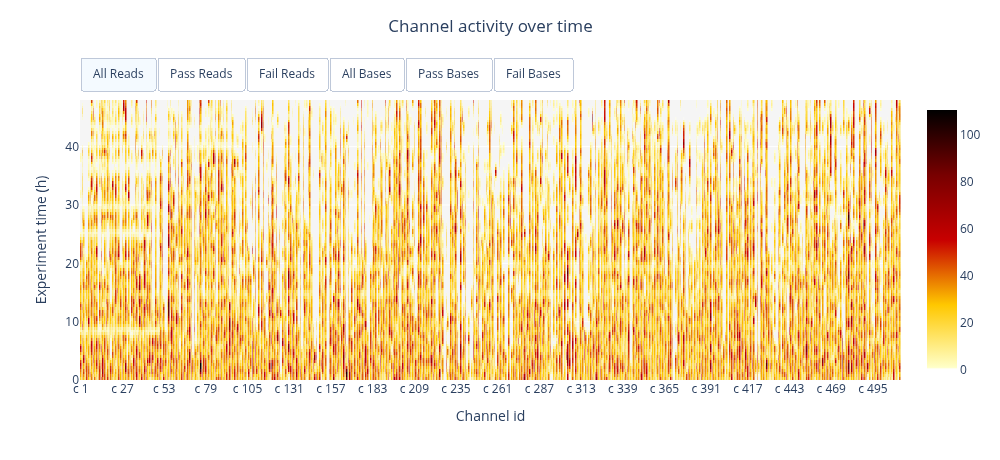
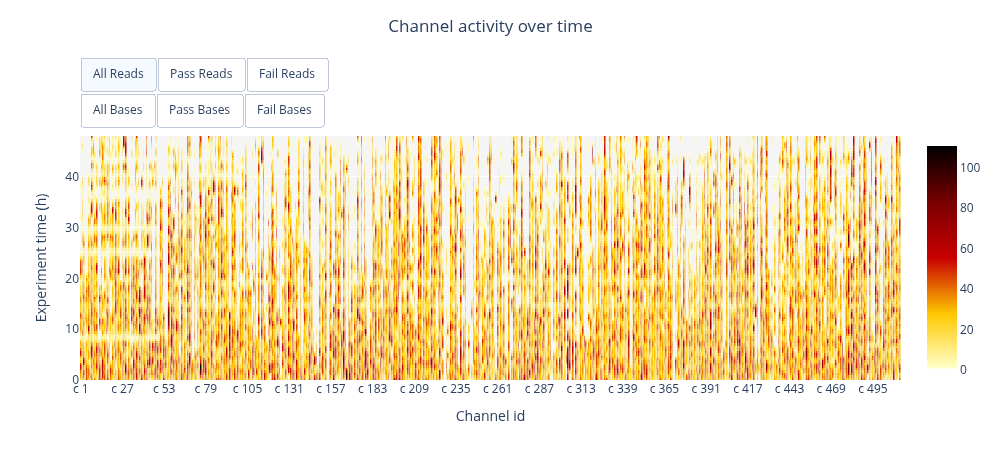
Move legends right of the plot; give six buttons two rows
The legends stayed in the left hand margin after the buttons moved out
of it, and a long y axis title, such as the over time plots' "Mean read
PHRED quality", ran under them. They now sit to the right of the plot
area, where plotly makes room; on the 2D plots the colour bar is
shortened to leave the legend room above it.

In one row, the six buttons of the output and channel plots ran off the
edge of the figure once the HTML report was in a narrow window (800 px).
Reads and bases now get a row each. Each row is its own menu with its own
highlight, so every button also clears the other row's, and only the
read set on show is marked; checked by clicking through them in Chrome.

Changed region(s): [[0.031, 0.213, 0.992, 0.8217], [0.341, 0.1217, 0.558, 0.1826], [0.961, 0.7, 0.992, 0.7304]]

diff --git a/pycoQC/plots/base.py b/pycoQC/plots/base.py
@@ -46,6 +46,15 @@ MENU_ROW = {"type": "buttons", "direction": "right",
             "x": 0, "xanchor": "left", "y": 1, "yanchor": "bottom",
             "pad": {"b": 10}}
 
+# Height of one row of buttons, for a plot with more than one.
+MENU_ROW_STEP = 36
+
+# Where a plot's legend goes: to the right of the plot area, from its top.
+# In the left hand margin it shared a column with the y axis title, and a
+# long title, such as the over time plots' "Mean read PHRED quality", ran
+# under it. Plotly widens the right margin to fit it.
+LEGEND_RIGHT = {"x": 1.02, "xanchor": "left", "y": 1, "yanchor": "top"}
+
 
 #~~~~~~~~~~~~~~~~~~~~~~~~~~~~~~~~~~~~CLASS~~~~~~~~~~~~~~~~~~~~~~~~~~~~~~~~~~~~~#
 class PlotBase:
@@ -340,7 +349,14 @@ class PlotBase:
 
     @staticmethod
     def _level_menu(prepared, method):
-        """The row of buttons switching a plot between read sets.
+        """The buttons switching a plot between read sets, in rows of three.
+
+        A plot counting both reads and bases has six buttons, too wide for
+        one row once the HTML report is in a narrow window: the last ran off
+        the edge of the figure. Reads and bases get a row each, reads on top.
+        Each row is a menu of its own, which keeps its own highlighted
+        button, so every button also clears the other rows' highlight and
+        only the read set on show is marked.
 
         * prepared
             (label, *args) per button, args being what plotly's method takes:
@@ -348,9 +364,35 @@ class PlotBase:
         * method
             "restyle" or "update".
         """
-        return [dict(MENU_ROW, active=0,
-                     buttons=[dict(label=label, method=method, args=list(args))
-                              for label, *args in prepared])]
+        rows = [prepared[i:i + len(LEVELS)] for i in range(0, len(prepared), len(LEVELS))]
+        if len(rows) == 1:
+            return [dict(MENU_ROW, active=0,
+                         buttons=[dict(label=label, method=method, args=list(args))
+                                  for label, *args in prepared])]
+
+        menus = []
+        for i, row in enumerate(rows):
+            others = {"updatemenus[{}].active".format(j): -1
+                      for j in range(len(rows)) if j != i}
+            buttons = []
+            for label, trace_update, *rest in row:
+                # "update" takes the trace update, a layout update and the
+                # traces; "restyle" the trace update and the traces.
+                if method == "update":
+                    layout_update, traces = (dict(rest[0]) if rest else {}), rest[1:]
+                else:
+                    layout_update, traces = {}, rest
+                layout_update.update(others)
+                buttons.append(dict(label=label, method="update",
+                                    args=[trace_update, layout_update, *traces]))
+            pad = dict(MENU_ROW["pad"], b=MENU_ROW["pad"]["b"] + MENU_ROW_STEP * (len(rows) - 1 - i))
+            menus.append(dict(MENU_ROW, pad=pad, active=0 if i == 0 else -1, buttons=buttons))
+        return menus
+
+    @staticmethod
+    def _menu_margin(menus):
+        """Top margin making room for the title and every row of buttons."""
+        return {"t": 100 + MENU_ROW_STEP * (len(menus) - 1)}
 
     @staticmethod
     def _title(text):

diff --git a/tests/test_regressions.py b/tests/test_regressions.py
@@ -276,7 +276,8 @@ def figures(tmp_path_factory, aligned_bam):
 class TestButtonsKeepClearOfLegendsAndAxes:
     """The buttons of each plot ran down the left hand side, sharing the
     margin with the legend and the y axis title, and covered one or the
-    other: six buttons on output_over_time went over both."""
+    other: six buttons on output_over_time went over both. The legends
+    stayed there after the buttons moved, and still met long titles."""
 
     def test_every_plot_with_buttons_is_drawn(self, figures):
         with_menus = {name for name, fig in figures.items()
@@ -297,6 +298,37 @@ class TestButtonsKeepClearOfLegendsAndAxes:
         for name, fig in figures.items():
             if fig.layout.updatemenus and fig.layout.legend.y is not None:
                 assert fig.layout.legend.y <= 1, name
+
+    def test_six_buttons_take_two_rows(self, figures):
+        """In one row, six buttons ran off the edge of a plot in a narrow
+        window. Each row keeps its own highlight, so every button clears the
+        other row's: only the read set on show is marked."""
+        for name in ("output_over_time", "channels_activity"):
+            layout = figures[name].layout
+            menus = layout.updatemenus
+            assert [[b.label for b in m.buttons] for m in menus] == [
+                ["All Reads", "Pass Reads", "Fail Reads"],
+                ["All Bases", "Pass Bases", "Fail Bases"]], name
+            assert [m.active for m in menus] == [0, -1], name
+            assert menus[0].pad.b > menus[1].pad.b, name    # reads on top
+            assert layout.margin.t > 100, name              # room for both
+            for i, menu in enumerate(menus):
+                for button in menu.buttons:
+                    assert button.method == "update", name
+                    assert button.args[1]["updatemenus[{}].active".format(1 - i)] == -1, name
+
+    def test_output_buttons_still_rescale_the_axis(self, figures):
+        """Splitting the rows must keep each button's own layout update."""
+        for menu in figures["output_over_time"].layout.updatemenus:
+            for button in menu.buttons:
+                assert "yaxis.range" in button.args[1]
+
+    def test_legends_stay_out_of_the_axis_title_column(self, figures):
+        """A legend left of the plot area shared that margin with the y axis
+        title, and "Mean read PHRED quality" ran under it."""
+        for name, fig in figures.items():
+            if fig.layout.yaxis.title.text and fig.layout.legend.x is not None:
+                assert fig.layout.legend.x >= 0, name
 
     def test_the_title_is_above_the_row(self, figures):
         for name, fig in figures.items():

diff --git a/pycoQC/plots/distributions.py b/pycoQC/plots/distributions.py
@@ -15,7 +15,7 @@ import plotly.graph_objs as go
 
 # Local lib import
 from pycoQC.common import pycoQCError
-from pycoQC.plots.base import LEVELS
+from pycoQC.plots.base import LEGEND_RIGHT, LEVELS
 
 #~~~~~~~~~~~~~~~~~~~~~~~~~~~~~~~~~~~~CLASS~~~~~~~~~~~~~~~~~~~~~~~~~~~~~~~~~~~~~#
 class Distributions:
@@ -264,7 +264,7 @@ class Distributions:
         layout = go.Layout(
             hovermode="closest",
             plot_bgcolor="whitesmoke",
-            legend={"x": -0.2, "y": 1, "xanchor": 'left', "yanchor": 'top'},
+            legend=LEGEND_RIGHT,
             updatemenus=self._level_menu(prepared, "update"),
             width=width,
             height=height,
@@ -606,7 +606,10 @@ class Distributions:
         data = [
             go.Contour(x=dd1["x"][0], y=dd1["y"][0], z=dd1["z"][0], contours=dd1["contours"][0],
                        name="Density", hoverinfo="name+x+y", colorscale=colorscale, showlegend=True,
-                       connectgaps=True, line={"width": 0}),
+                       connectgaps=True, line={"width": 0},
+                       # Shortened to leave the legend room above it, on
+                       # the same side.
+                       colorbar={"len": 0.7, "y": 0, "yanchor": "bottom"}),
             go.Scatter(x=dd1["x"][1], y=dd1["y"][1],
                        mode='markers', name='Median', hoverinfo="name+x+y",
                        marker={"size": 12, "color": 'black', "symbol": "x"})]
@@ -615,7 +618,7 @@ class Distributions:
         layout = go.Layout(
             hovermode="closest",
             plot_bgcolor="whitesmoke",
-            legend={"x": -0.2, "y": 1, "xanchor": 'left', "yanchor": 'top'},
+            legend=LEGEND_RIGHT,
             updatemenus=self._level_menu(prepared, "restyle"),
             width=width,
             height=height,

diff --git a/pycoQC/plots/over_time.py b/pycoQC/plots/over_time.py
@@ -16,7 +16,7 @@ import plotly.graph_objs as go
 
 # Local lib import
 from pycoQC.common import pycoQCError
-from pycoQC.plots.base import LEVELS
+from pycoQC.plots.base import LEGEND_RIGHT, LEVELS
 
 #~~~~~~~~~~~~~~~~~~~~~~~~~~~~~~~~~~~~CLASS~~~~~~~~~~~~~~~~~~~~~~~~~~~~~~~~~~~~~#
 class OverTime:
@@ -74,12 +74,14 @@ class OverTime:
                  for i in range(2, len(dd1["x"]))]
 
         # tweak plot layout
+        menus = self._level_menu(prepared, "update")
         layout = go.Layout(
             plot_bgcolor="whitesmoke",
             width=width,
             height=height,
-            updatemenus=self._level_menu(prepared, "update"),
-            legend={"x": -0.05, "y": 1, "xanchor": 'right', "yanchor": 'top'},
+            updatemenus=menus,
+            margin=self._menu_margin(menus),
+            legend=LEGEND_RIGHT,
             title=self._title(plot_title),
             xaxis={"title": "Experiment time (h)", "zeroline": False, "showline": True},
             yaxis={"title": "Count", "zeroline": False, "showline": True, "fixedrange": True,
@@ -525,7 +527,7 @@ class OverTime:
             width=width,
             height=height,
             updatemenus=self._level_menu(prepared, "restyle"),
-            legend={"x": -0.07, "y": 1, "xanchor": 'right', "yanchor": 'top'},
+            legend=LEGEND_RIGHT,
             title=self._title(plot_title),
             yaxis={"title": y_lab, "zeroline": False, "type": y_scale, "showline": True,
                    "rangemode": 'nonnegative', "fixedrange": True},

diff --git a/pycoQC/plots/alignment.py b/pycoQC/plots/alignment.py
@@ -20,7 +20,7 @@ from plotly.subplots import make_subplots
 
 # Local lib import
 from pycoQC.common import pycoQCError
-from pycoQC.plots.base import COVERAGE_MAX_LABELLED_REFS, MENU_ROW
+from pycoQC.plots.base import COVERAGE_MAX_LABELLED_REFS, LEGEND_RIGHT, MENU_ROW
 
 #~~~~~~~~~~~~~~~~~~~~~~~~~~~~~~~~~~~~CLASS~~~~~~~~~~~~~~~~~~~~~~~~~~~~~~~~~~~~~#
 class Alignment:
@@ -272,7 +272,7 @@ class Alignment:
             updatemenus=updatemenus,
             shapes=shapes,
             hovermode="closest",
-            legend={"x": -0.2, "y": 1, "xanchor": 'left', "yanchor": 'top'},
+            legend=LEGEND_RIGHT,
             xaxis={"zeroline": False, "showline": True, "ticktext": x_lab, "tickvals": x_lab_coord,
                    "tickangle": -45, "showgrid": False, "title": x_title},
             yaxis={"title": "Mean Coverage", "type": "log", "zeroline": False, "fixedrange": True},

diff --git a/pycoQC/plots/barcodes.py b/pycoQC/plots/barcodes.py
@@ -14,7 +14,7 @@ import plotly.graph_objs as go
 
 # Local lib import
 from pycoQC.common import pycoQCError
-from pycoQC.plots.base import LEVELS, MENU_ROW, PIE_MAX_BARCODES
+from pycoQC.plots.base import LEGEND_RIGHT, LEVELS, MENU_ROW, PIE_MAX_BARCODES
 
 #~~~~~~~~~~~~~~~~~~~~~~~~~~~~~~~~~~~~CLASS~~~~~~~~~~~~~~~~~~~~~~~~~~~~~~~~~~~~~#
 class Barcodes:
@@ -234,7 +234,7 @@ class Barcodes:
         layout = go.Layout(
             hovermode="closest",
             plot_bgcolor="whitesmoke",
-            legend={"x": -0.2, "y": 1, "xanchor": 'left', "yanchor": 'top'},
+            legend=LEGEND_RIGHT,
             updatemenus=self._level_menu(prepared, "restyle"),
             width=width,
             height=height,

diff --git a/pycoQC/plots/run_health.py b/pycoQC/plots/run_health.py
@@ -328,11 +328,13 @@ class RunHealth:
                            hoverinfo="x+y+z")]
 
         # tweak plot layout
+        menus = self._level_menu(prepared, "restyle")
         layout = go.Layout(
             plot_bgcolor="whitesmoke",
             width=width,
             height=height,
-            updatemenus=self._level_menu(prepared, "restyle"),
+            updatemenus=menus,
+            margin=self._menu_margin(menus),
             title=self._title(plot_title),
             xaxis={"title": "Channel id", "zeroline": False, "showline": False, "nticks": 20, "showgrid": False},
             yaxis={"title": "Experiment time (h)", "zeroline": False, "showline": False,

diff --git a/CHANGELOG.md b/CHANGELOG.md
@@ -107,7 +107,10 @@ fixes fell out of.
   side, where the legend and the y axis title also were. They covered one
   or the other, and on the output and channel plots, with six buttons,
   both. Every plot's buttons now sit in a row above the plot area, under
-  the title.
+  the title; the output and channel plots have a row for reads and one
+  for bases, so they fit a narrow window. The legends moved to the right
+  of the plot area, since in the left margin a long axis title, such as
+  "Mean read PHRED quality", still ran under them.
 * The percentile labels of the distribution plots printed over one another
   wherever the percentiles were close together, which on a translocation
   speed plot left the middle three unreadable. Each label now sits a step
